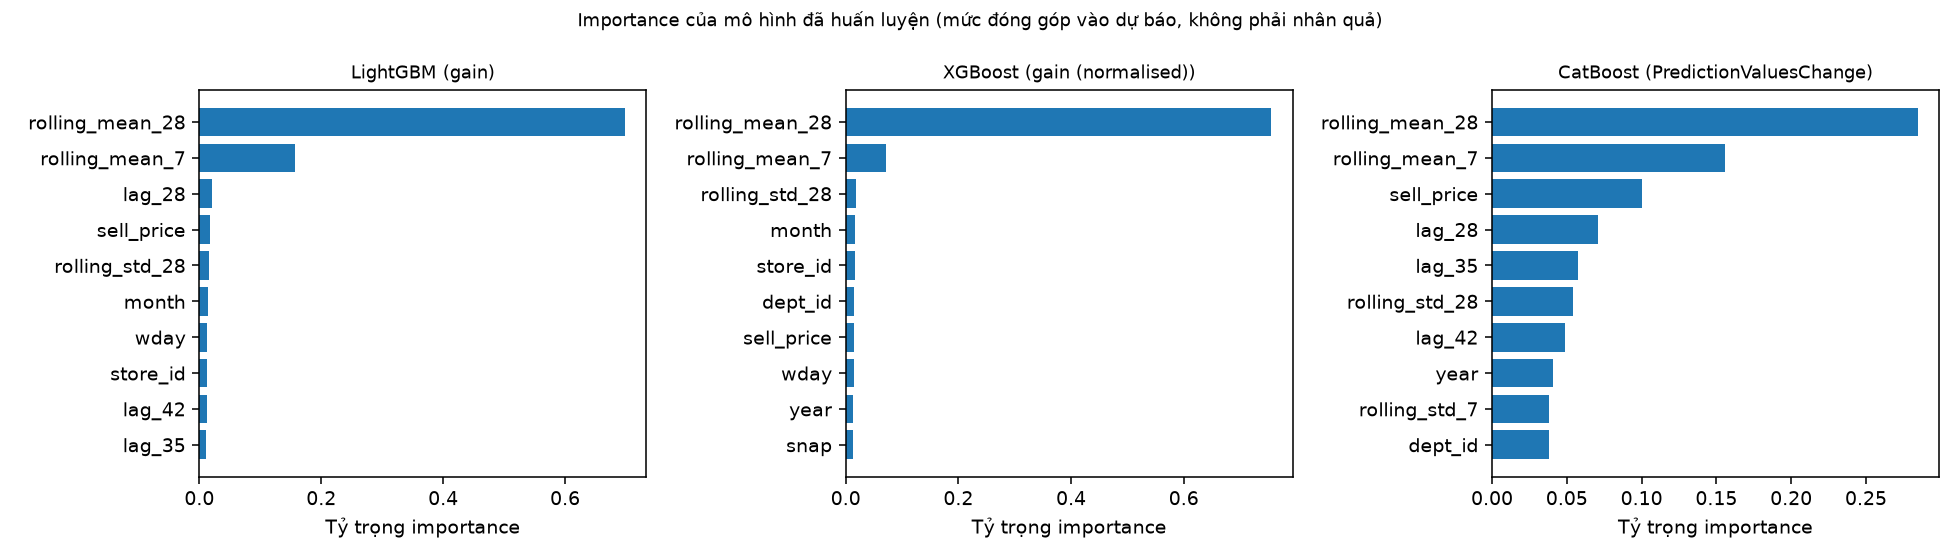
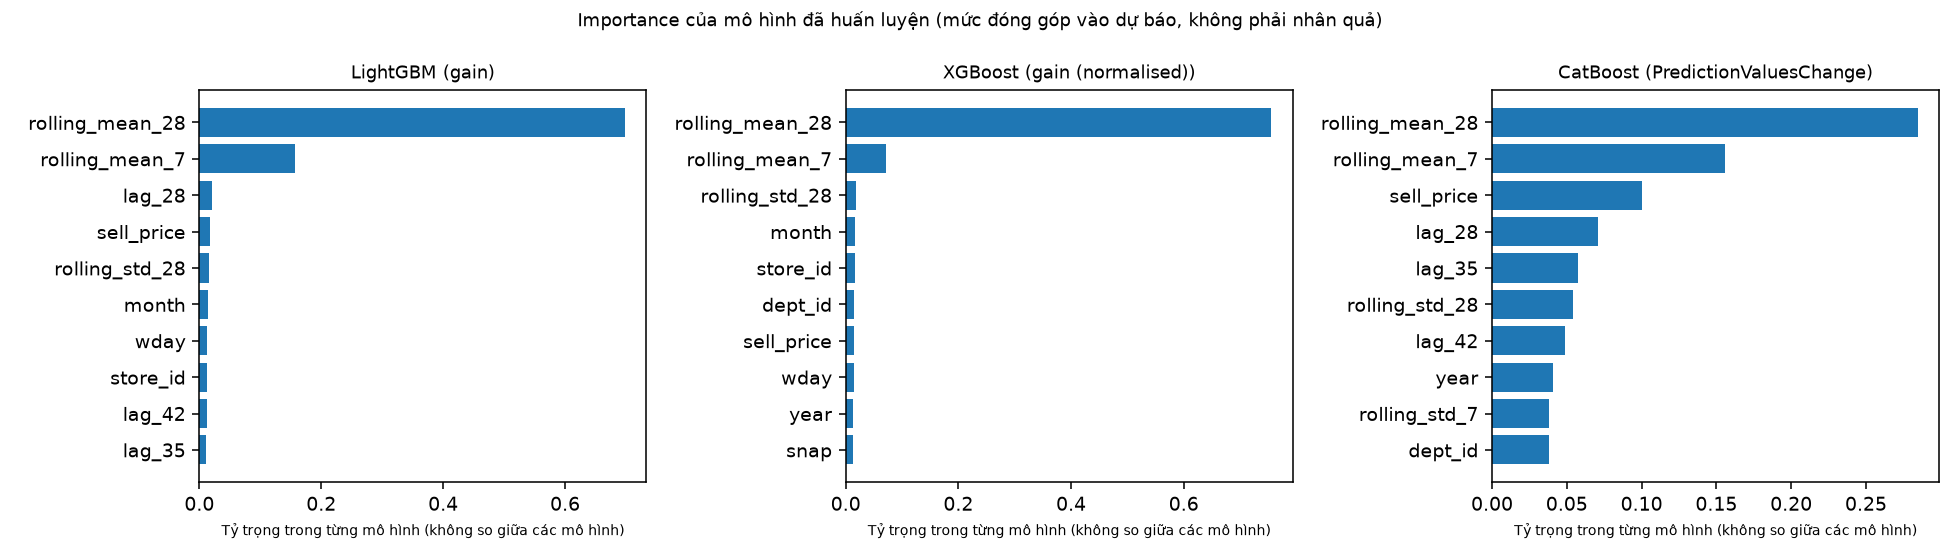
fix(P01,M10): slide nhóm nhu cầu đúng tiêu đề và dấu phẩy, nhãn hình importance không so giữa mô hình (review PR #20)

diff --git a/scripts/build_slides.py b/scripts/build_slides.py
@@ -106,16 +106,21 @@ def main():
     d.columns = ["Mô hình", "MAE", "RMSE", "RMSSE", "R²", "fit+predict (s)"]
     slide("Kết quả Test (d_1914–1941)", "Thủy Tiên: Test chạy một lần sau config-freeze; refit d_1–1913.", table=d,
           caption="Nguồn: results/tables/test/test_overall.csv; cùng mẫu, cùng chính sách metric.")
-    slide("Theo nhóm nhu cầu", "Thanh Tiền (F08): nhóm theo tỷ lệ ngày 0 trên Train.", image=F / "test" / "test_rmsse_by_demand_class.png",
-          bullets=[f"Tốt nhất tổng thể trên Test: {LABEL[best_t]} (RMSSE {test.loc[best_t, 'macro_rmsse']:.3f}) so với Seasonal Naive {snaive_t['macro_rmsse']:.3f}",
-                   "Xem hình: mô hình mạnh/yếu theo nhóm; chỉ là liên hệ"])
+    cls = pd.read_csv(T / "test" / "test_by_demand_class.csv").pivot(index="demand_class", columns="model", values="rmsse")
+    c = lambda x: f"{x:.3f}".replace(".", ",")
+    hz, lz = cls.loc["high_zero(>0.8)"], cls.loc["low_zero(<=0.5)"]
+    trees = [hz[m] for m in ("lightgbm", "xgboost", "catboost")]
+    slide("Theo nhóm nhu cầu", "Thanh Tiền (F08): nhóm theo tỷ lệ ngày 0 trên Train; số lấy từ test_by_demand_class.csv.", image=F / "test" / "test_rmsse_by_demand_class.png",
+          bullets=[f"Hàng bán chậm (trên 80% ngày không bán): ETS {c(hz['ets'])}, Croston {c(hz['croston'])}, ba mô hình cây {c(min(trees))}–{c(max(trees))}",
+                   f"Hàng bán thường xuyên (tối đa 50% ngày không bán): ETS {c(lz['ets'])}, CatBoost {c(lz['catboost'])}",
+                   "Chỉ là liên hệ trên một cửa sổ 28 ngày"])
     slide("Theo thứ trong tuần và horizon", "Thanh Tiền (F08).", image=F / "test" / "test_mae_by_horizon.png",
           bullets=["MAE gộp theo horizon 1–28", "Sai số cao hơn vào cuối tuần (Thứ Bảy, Chủ nhật)"])
     slide("Đánh đổi độ chính xác và thời gian", "Tuấn Hải/Thủy Tiên: không so trực tiếp runtime local và global.", image=F / "test" / "test_accuracy_runtime.png",
           bullets=["Thời gian: local = tổng fit+predict từng chuỗi; global = fit toàn mẫu", "CatBoost mặc định chậm nhất trên CPU 4 lõi"])
     slide("Insight và giới hạn", "Thủy Tiên: kết luận gắn với bảng/hình; nêu giới hạn.",
           ["Một cửa sổ Test 28 ngày; mẫu 1.200 chuỗi", "Khác biệt input giữa local và global gây nhiễu thứ hạng", "Giả định giá tương lai; importance không phải nhân quả",
-           "Optuna, stacking, SBA, ablation: cắt, không chạy", "Smoke ≠ tái lập toàn bộ"])
+           "Phần tùy chọn: mới có Validation (Optuna, SBA, ablation); stacking và Test chưa chạy", "Smoke ≠ tái lập toàn bộ"])
     slide("Kết luận và hướng phát triển", "Tuấn Hải (W08/P05).",
           [f"Mô hình tốt nhất trên Test theo macro-RMSSE: {LABEL[best_t]}", "Mọi mô hình cải thiện rõ so với Seasonal Naive (xem bảng)", "Hướng: rolling-origin nhiều mùa, WRMSSE phân cấp, mô phỏng tồn kho, dự báo xác suất"])
     slide("Q&A", "Cả nhóm: xem report/qa.md.", ["Câu hỏi dự kiến: horizon 28, lag ≥ 28, RMSSE vs WRMSSE, R² âm, AICc, Croston z/p, hệ số LR, boosting cộng cây, giá tương lai, local/global"])
